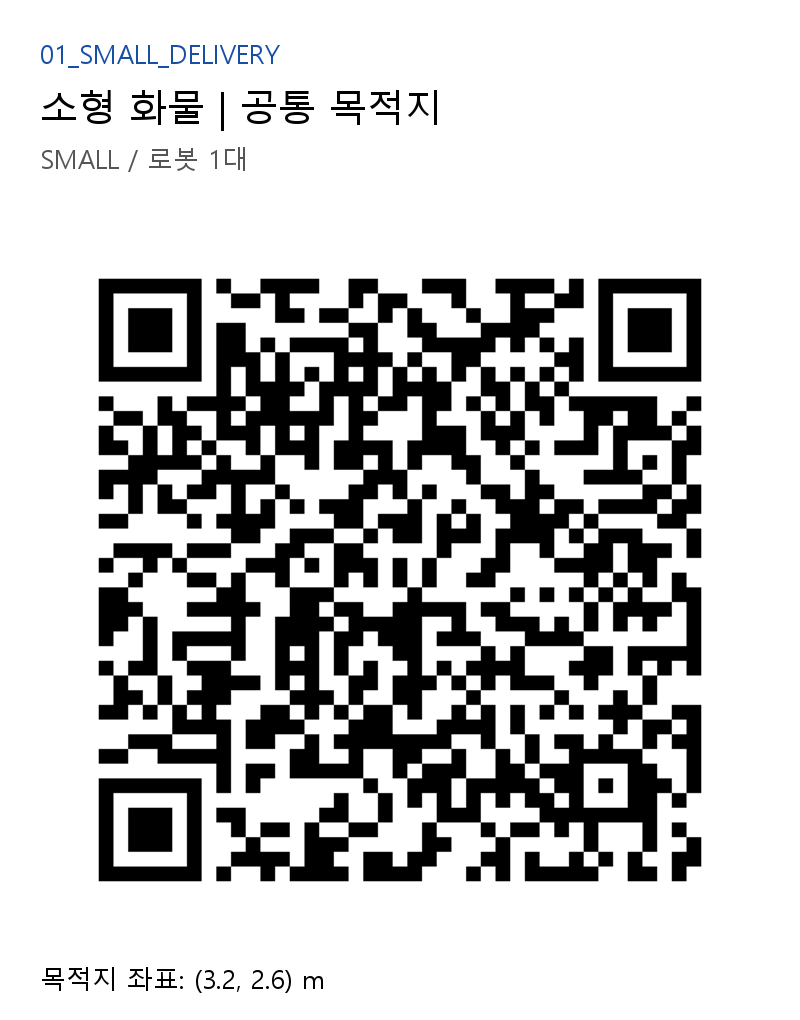
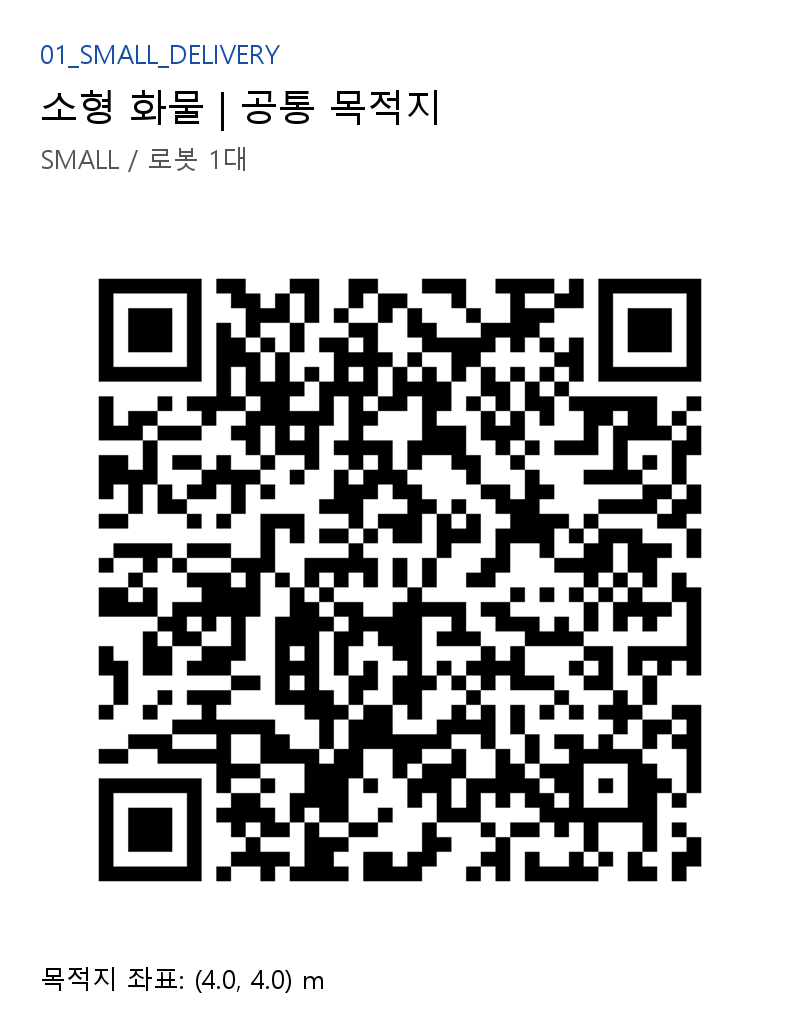
Expand delivery test map to 5 by 5 meters

diff --git a/src/cargo_robot_description/launch/cargo_system.launch.py b/src/cargo_robot_description/launch/cargo_system.launch.py
@@ -100,8 +100,8 @@ def generate_launch_description():
             '-world', 'warehouse_l_shape',
             '-string', robot1_description,
             '-name', 'cargo_robot_1',
-            '-x', '1.80',
-            '-y', '0.30',
+            '-x', '2.30',
+            '-y', '0.40',
             '-z', '0.02'
         ],
         output='screen'
@@ -113,8 +113,8 @@ def generate_launch_description():
             '-world', 'warehouse_l_shape',
             '-string', robot2_description,
             '-name', 'cargo_robot_2',
-            '-x', '2.20',
-            '-y', '0.30',
+            '-x', '2.70',
+            '-y', '0.40',
             '-z', '0.02'
         ],
         output='screen'

diff --git a/src/cargo_fleet_manager/cargo_fleet_manager/mission_manager.py b/src/cargo_fleet_manager/cargo_fleet_manager/mission_manager.py
@@ -23,11 +23,11 @@ class MissionManager(Node):
     # through a rack even though the controller itself only follows points.
     # Test layout: empty floor. Add shelf rectangles here for obstacle tests.
     OBSTACLES = ()
-    MAP_BOUNDS = (0.15, 3.85, 0.15, 2.85)
+    MAP_BOUNDS = (0.15, 4.85, 0.15, 4.85)
     GRID_SIZE = 0.10
     ROBOT_CLEARANCE = 0.28
-    LOADING_POINT = (0.40, 0.35)
-    STANDBY_POINT = (2.00, 0.30)
+    LOADING_POINT = (0.60, 0.50)
+    STANDBY_POINT = (2.50, 0.40)
 
     def __init__(self):
         super().__init__('mission_manager')

diff --git a/tools/generate_delivery_qrs.py b/tools/generate_delivery_qrs.py
@@ -8,8 +8,8 @@ from PIL import Image, ImageDraw, ImageFont
 
 
 CARDS = (
-    ("01_SMALL_DELIVERY", "소형 화물 | 공통 목적지", "SMALL / 로봇 1대", 3.20, 2.60, "SMALL_BOX", 2.0),
-    ("02_LONG_DELIVERY", "장형 화물 | 공통 목적지", "LONG / 로봇 2대", 3.20, 2.60, "LONG_BOX", 8.0),
+    ("01_SMALL_DELIVERY", "소형 화물 | 공통 목적지", "SMALL / 로봇 1대", 4.00, 4.00, "SMALL_BOX", 2.0),
+    ("02_LONG_DELIVERY", "장형 화물 | 공통 목적지", "LONG / 로봇 2대", 4.00, 4.00, "LONG_BOX", 8.0),
 )
 
 

diff --git a/src/cargo_fleet_manager/cargo_fleet_manager/uwb_simulator.py b/src/cargo_fleet_manager/cargo_fleet_manager/uwb_simulator.py
@@ -9,8 +9,8 @@ class UwbSimulator(Node):
     # Gazebo controller odometry starts from (0, 0) for each robot.  UWB must
     # instead report the shared warehouse coordinate frame used by missions.
     WORLD_OFFSETS = {
-        'robot1': (1.80, 0.30),
-        'robot2': (2.20, 0.30),
+        'robot1': (2.30, 0.40),
+        'robot2': (2.70, 0.40),
     }
 
     def __init__(self):

diff --git a/qr_codes/README.md b/qr_codes/README.md
@@ -2,17 +2,17 @@
 
 이 QR들은 `cargo_fleet_manager/qr_reader.py`가 읽는 배송 명령이다. QR을 찍으면 화물 종류에 따라 1대 또는 2대가 배정되고, `대기소 → 적재소 → 목적지 → 대기소` 순서로 이동한다.
 
-모든 QR의 목적지는 공통 목적지 `(3.20, 2.60) m`다. 화물 조건만 로봇 배정에 사용한다.
+모든 QR의 목적지는 공통 목적지 `(4.00, 4.00) m`다. 화물 조건만 로봇 배정에 사용한다.
 
 | 파일 | 화물 | 배정 로봇 | 목적지 좌표 |
 | --- | --- | --- | --- |
-| `01_SMALL_DELIVERY.png` | 소형 상자 2 kg | 1대 | (3.20, 2.60) m |
-| `02_LONG_DELIVERY.png` | 장형 상자 8 kg | 2대 | (3.20, 2.60) m |
+| `01_SMALL_DELIVERY.png` | 소형 상자 2 kg | 1대 | (4.00, 4.00) m |
+| `02_LONG_DELIVERY.png` | 장형 상자 8 kg | 2대 | (4.00, 4.00) m |
 
 QR 내부 데이터 형식은 다음과 같다. `dest_x`, `dest_y`를 바꾸면 새 목적지를 만들 수 있다.
 
 ```json
-{"command":"DELIVERY","cargo_type":"LONG_BOX","weight_kg":8.0,"dest_x":3.20,"dest_y":2.60}
+{"command":"DELIVERY","cargo_type":"LONG_BOX","weight_kg":8.0,"dest_x":4.00,"dest_y":4.00}
 ```
 
 새 카드는 `python3 tools/generate_delivery_qrs.py`로 다시 생성한다.
